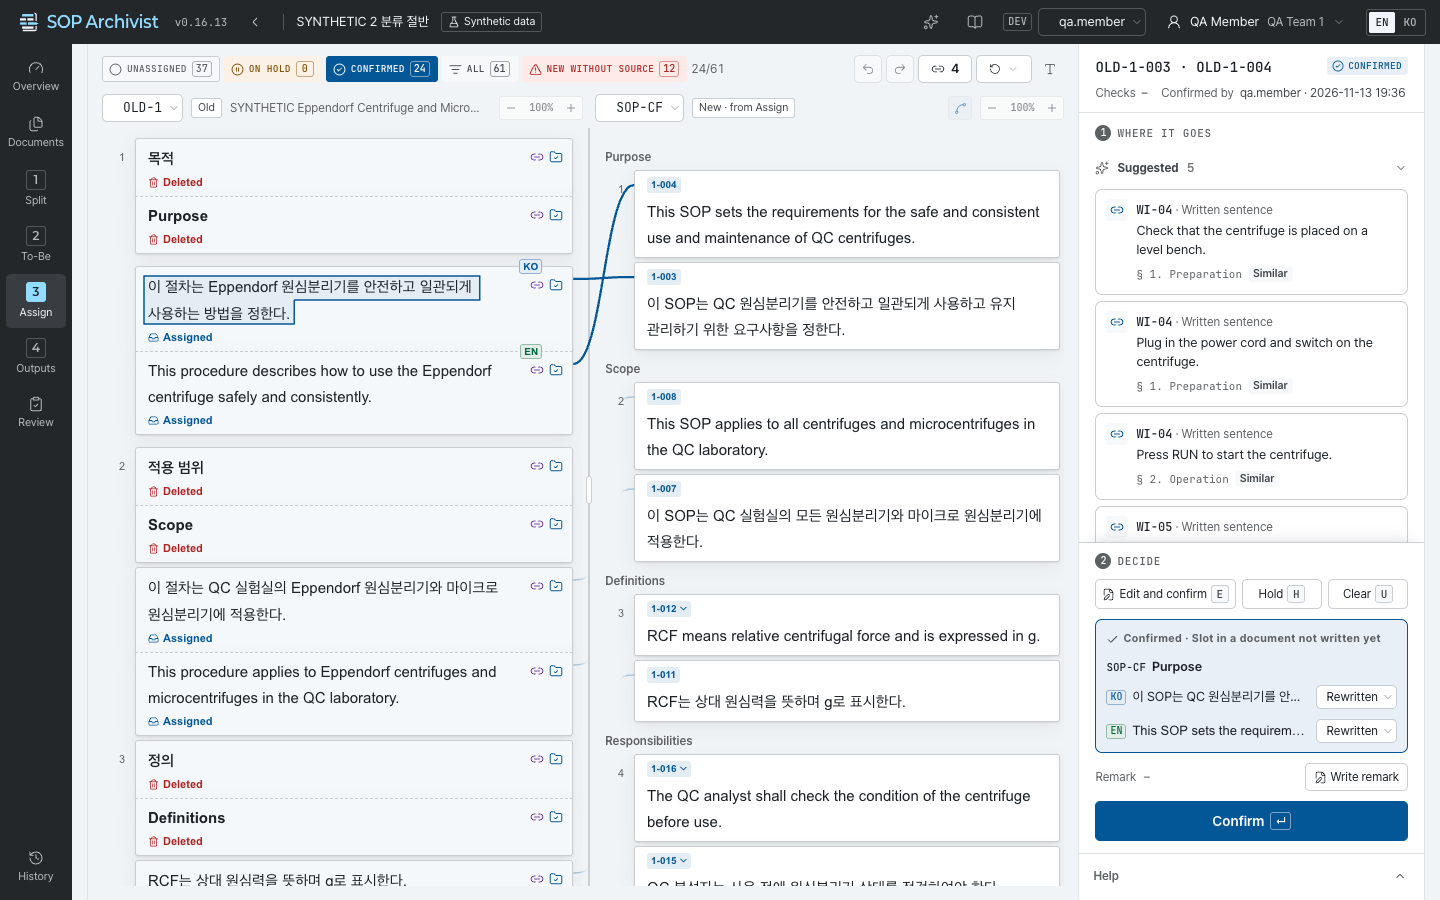
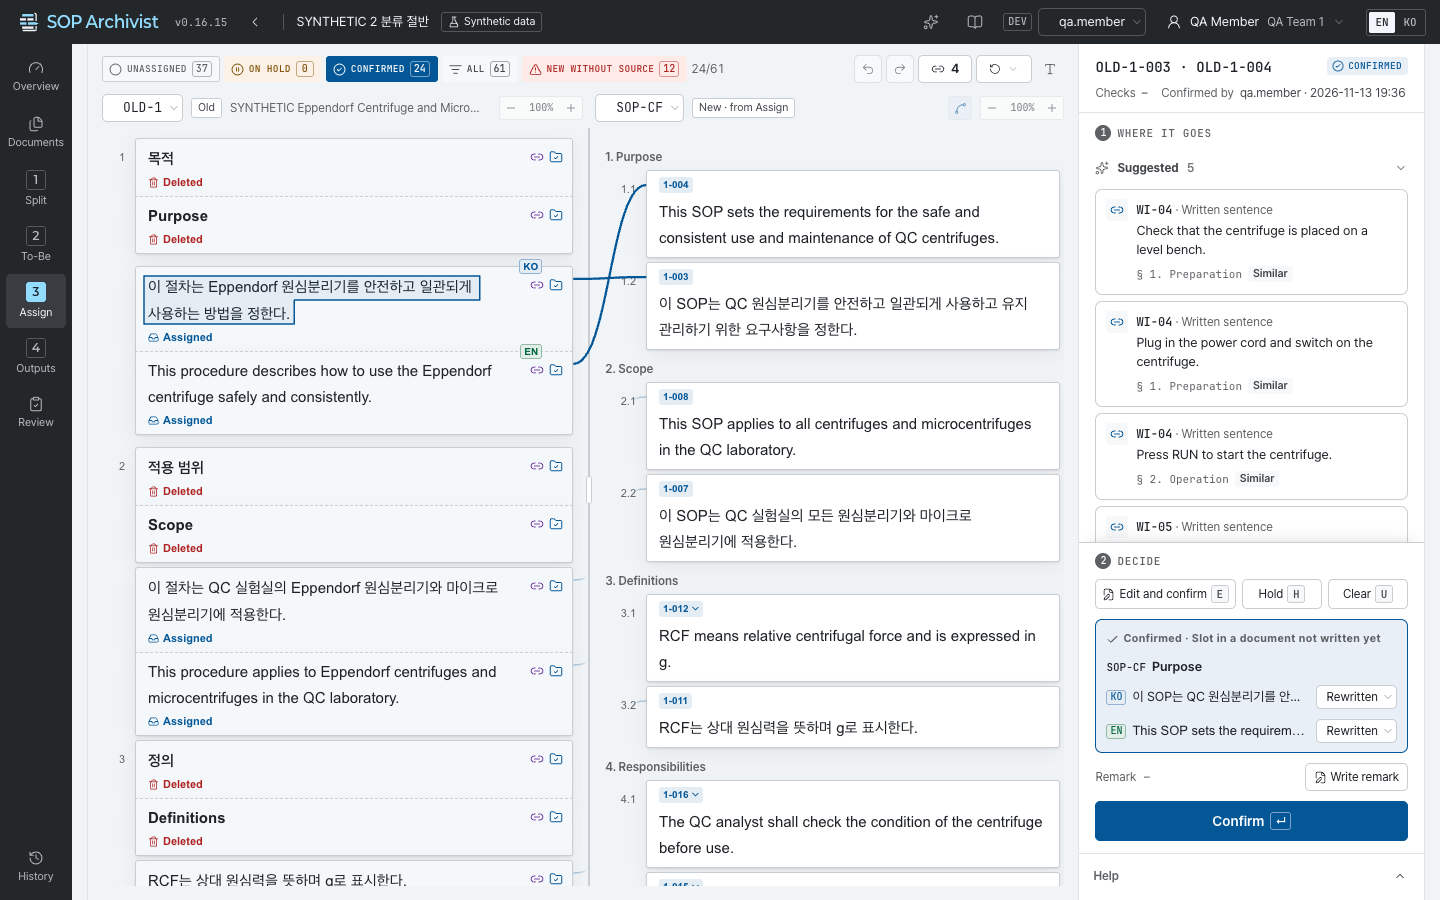
docs(manual): Assign images show per-sentence numbers in the composed preview — 시스템 설명서 Assign 그림 다시 뽑기
The composed New-pane preview now numbers each sentence, and the in-place menu
sits below a picked New pair (v0.16.14), so the Assign scenes and the
assign-link marks are re-shot. Other scenes only differ by the version label.

Claude-Session: https://claude.ai/code/session_01YNNLvBwBj2gS8W3Z7o5G64

Changed region(s): [[0.4062, 0.4044, 0.75, 0.9956], [0.4062, 0.1556, 0.7188, 0.3733]]

diff --git a/docs/manual/img/marks.js b/docs/manual/img/marks.js
@@ -447,14 +447,14 @@ window.MANUAL_MARKS = {
    "x": 44.04,
    "y": 18.89,
    "w": 29.6,
-   "h": 4.44
+   "h": 4.33
   },
   {
    "n": 4,
    "x": 76.07,
-   "y": 75.67,
+   "y": 72.11,
    "w": 21.71,
-   "h": 8
+   "h": 11.56
   },
   {
    "n": 5,
